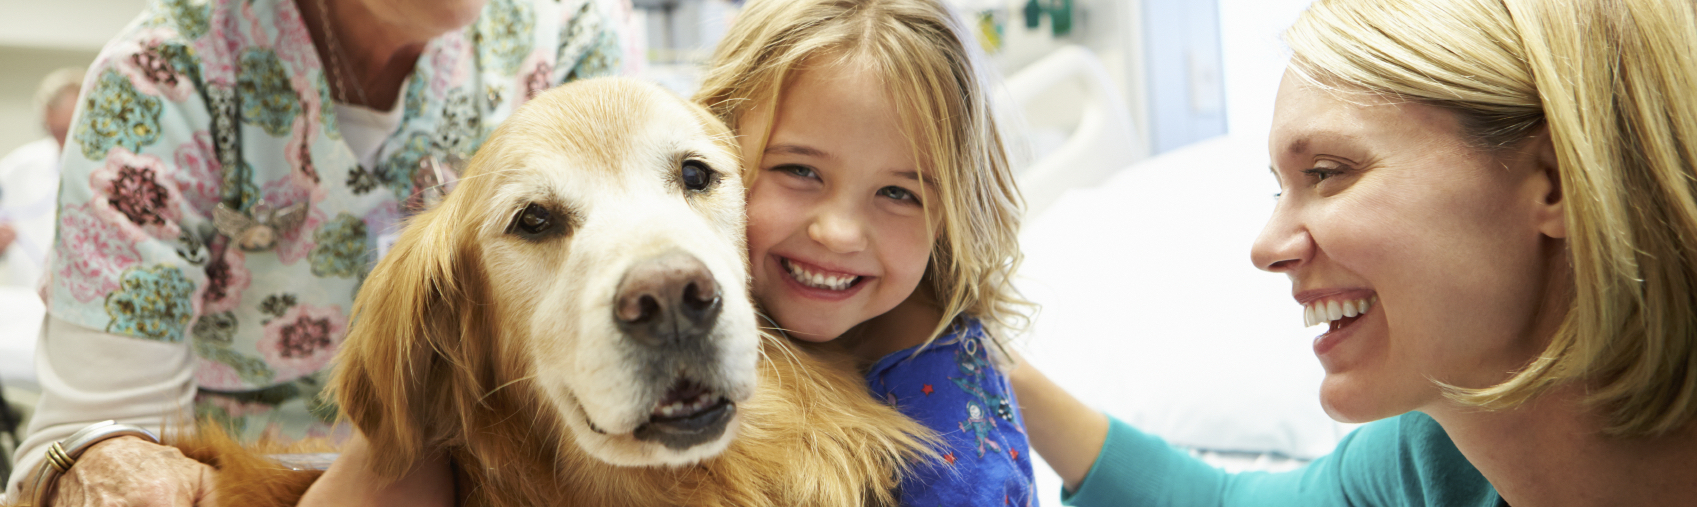
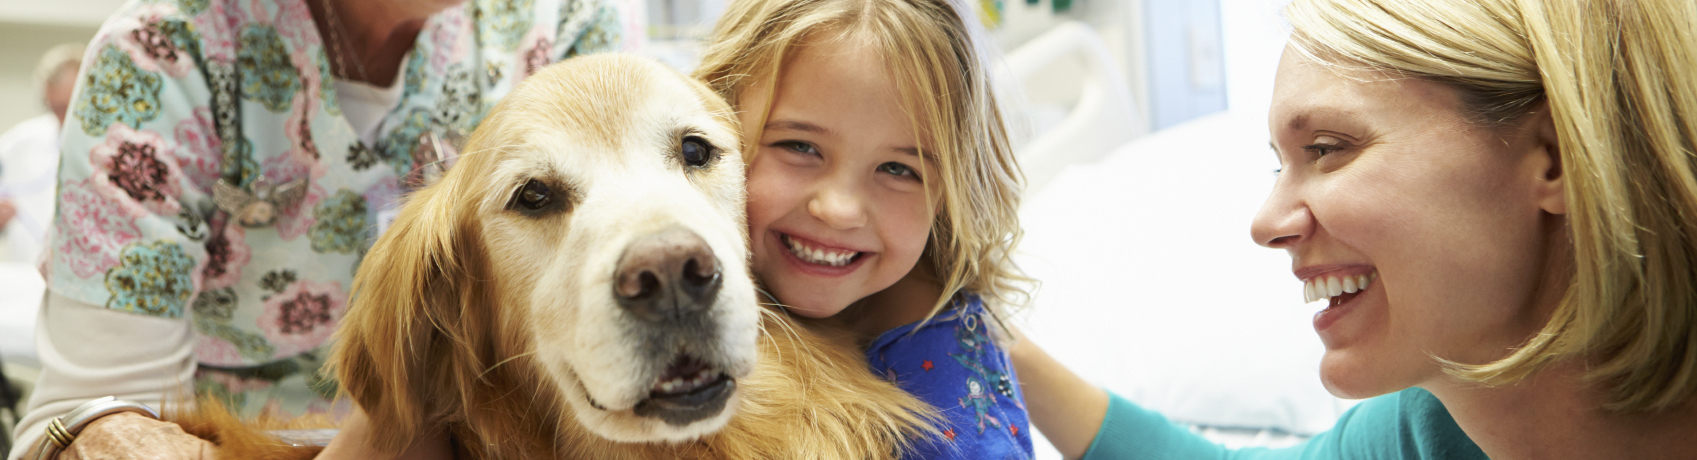
media queries added, updated style

diff --git a/unit_8/index.html b/unit_8/index.html
@@ -4,102 +4,121 @@
 	<title>Doggos Doing Good</title>
 
 	<link href="https://fonts.googleapis.com/css?family=Muli|Roboto" rel="stylesheet">
-	<link rel="stylesheet" type="text/css" href="css/style.css">
+	<link rel="stylesheet" type="text/css" href="css/style2.css">
 	<meta name="viewport" content="width=device-width, initial-scale=1">
 </head>
 
 
 <body>
 	<div class="wrapper">
-	<header>
-		<h1>Doggos Doing Good</h1>
-	</header>
+		<header>
+			<h1>Doggos Doing Good</h1>
+		</header>
 
-	<nav>
-		<ul id="nav">
-			<li><a class="active" href="#home">Home</a></li>
-			<li><a href="http://google.com">Getting Started</a></li>
-			<li><a href="#">Charities</a></li>
-			<li><a href="#">Donate</a></li>
-		</ul>
-	</nav>
+		<nav>
+			<ul id="nav">
+				<li><a class="active" href="#home">Home</a></li>
+				<li><a href="http://google.com">Getting Started</a></li>
+				<li><a href="#">Charities</a></li>
+				<li><a href="#">Donate</a></li>
+			</ul>
+		</nav>
 
-	<main>	
-		<img class="resize" 
-			src="images/focalpoint.jpg"
-			alt="doggo bringing joy to hospital patient"
-			title="therapy dog"
-		>
-		<h2 id="slogan">
-			Pets have a way of find the people that need them most.
-			<br>
-			<strong>We help make it easier.</strong>
-		</h2>
-	</main>
+		<main>	
+			<img class="focalpoint" 
+				src="images/focalpoint.jpg"
+				alt="doggo bringing joy to hospital patient"
+				title="therapy dog"
+			>
+			<h2 id="slogan">
+				Pets have a way of find the people that need them most.
+				<br>
+				<strong>We help make it easier.</strong>
+			</h2>
+		</main>
 
-	<section id="one">
-		<article class="info">
+		<section id="content">
+			<article class="left">
+				<h3>What Do We Do?</h2>
+				<p>
+					Welcome to Doggos Doing Good! Did you know that dogs can provide important health benefits? Being around animals makes people feel better, healthier, and happier. Pet therapy is a growing field that uses dogs and other pets to help children and adults recover from, or cope with, a range of health problems, such as heart disease, cancer and mental health disorders. Animal-assisted activities, on the other hand, have a more general purpose, such as providing comfort and enjoyment for nursing home residents.
+				</p>
+			</article>
+
+			<aside class="goal">
+				<h3>Our goal is to help you: </h3> 
+					<ul>
+						<li>Learn about pet therapy</li><br>
+						<li>What you need to start</li><br>
+						<li>Where to go to volunteer</li></br>
+						<li>Help you bring joy to others</li>
+					</ul>	
+			</aside>
+			<article class="left">
+				<h3>What is Pet Therapy?</h3>
+				<p>
+					Lorem ipsum dolor sit amet, consectetur adipisicing elit. Est voluptas officiis quos ullam explicabo aut doloribus. Quidem voluptate dolores accusamus iusto, neque est facere iste voluptates. Quis totam, incidunt ex. Lorem ipsum dolor sit amet, consectetur adipisicing elit. Inventore neque, iusto ratione, beatae alias nobis veritatis dolor perferendis accusantium sint saepe itaque natus corporis reprehenderit ducimus! Autem, nobis in vitae!
+				</p>
+			</article>
+			<article class="left">
+				<h3>Benefits of Pet Therapy</h3>
+				<p>
+					Lorem ipsum dolor sit amet, consectetur adipisicing elit. Tempora ratione consequuntur pariatur porro neque a nam unde earum sequi architecto. Consequuntur ea sit optio eveniet repellendus eos fuga autem inventore.Lorem ipsum dolor sit amet, consectetur adipisicing elit. Error commodi architecto voluptatibus delectus perferendis voluptatem ut dignissimos, incidunt impedit corporis nemo quaerat sequi nostrum eius excepturi quasi, labore voluptate laudantium? Lorem ipsum dolor sit amet, consectetur adipisicing elit. Vero odio autem sunt. Ipsum, non, iste. Obcaecati deleniti quidem quaerat voluptatibus consequuntur doloribus quam, ad dolore architecto, culpa maiores voluptate et.
+				</p>
+			</article>
+			<article class="left">
+				<h3>Who Should Consider Pet Therapy?</h3>
+				<p>
+					Lorem ipsum dolor sit amet, consectetur adipisicing elit. Iure ratione voluptatum impedit quas perferendis cumque quod, quibusdam aliquid adipisci earum iste ipsum odit iusto odio. Obcaecati recusandae id error cupiditate.Lorem ipsum dolor sit amet, consectetur adipisicing elit. Distinctio hic saepe, voluptas! Ipsum dolores iusto molestias quis, perspiciatis, in assumenda laborum ipsa cupiditate minima tempora quasi voluptatem adipisci eos cum.Lorem ipsum dolor sit amet, consectetur adipisicing elit. Quibusdam rem qui optio consectetur velit eum, amet nam iste magni voluptas error, deserunt tenetur, accusamus cumque soluta eaque. Tempore dolorem, minus.
+				</p>
+			</article>
+			<article class="left">
+				<h3>What are the Risks of Pet Therapy?</h3>
+				<p>
+					loremLorem ipsum dolor sit amet, consectetur adipisicing elit. Quaerat itaque odio obcaecati suscipit reiciendis et, dignissimos unde dolores, iusto esse aspernatur soluta nulla molestiae, fuga tempore doloremque voluptate maxime vero.Lorem ipsum dolor sit amet, consectetur adipisicing elit. Vero soluta vel, quam enim repellat dolorem vitae tenetur? Dicta incidunt nesciunt magnam, cum nulla voluptas sequi consectetur ullam, similique facere in.
+				</p>
+			</article>
+			<article class="left">
+				<h3>How is Pet Therapy Administered?</h3>
+				<p>
+					Lorem ipsum dolor sit amet, consectetur adipisicing elit. Quasi, assumenda, perferendis. Assumenda nostrum eaque odit, facere, illo, magnam reprehenderit nulla harum deserunt officia dolor itaque? Voluptates assumenda facilis veniam repudiandae!Lorem ipsum dolor sit amet, consectetur adipisicing elit. Ratione ab harum, perspiciatis optio dolorem, numquam consectetur aliquid, voluptatibus voluptate veritatis quaerat soluta est neque ea. Doloribus similique, modi voluptatibus vitae!
+				</p>
+			</article>
+			<article class="left">
+				<h3>Outlook</h3>
+				<p>
+					Lorem ipsum dolor sit amet, consectetur adipisicing elit. Possimus adipisci, perspiciatis, tempore quos ipsum tempora similique necessitatibus unde accusantium quidem deserunt. Sed nesciunt modi, veniam magnam quibusdam inventore, rem magni.Lorem ipsum dolor sit amet, consectetur adipisicing elit. Quod consequatur dolore quis iste voluptatibus possimus, laborum nobis velit consequuntur magnam id dolorum, eius voluptate. Dolores rerum, quaerat! Repellat, quos nulla.Lorem ipsum dolor sit amet, consectetur adipisicing elit. Pariatur necessitatibus, praesentium, molestiae dolore illum quod doloremque saepe minus eius reprehenderit aut provident nemo perferendis iusto perspiciatis aperiam magnam, ullam voluptatem.
+				</p>
+			</article>
+			<aside class="right">
+				<nav id="pt_nav">
+					<li><a href="#">Benefits</a></li>
+					<li><a href="#">Candidates</a></li>
+					<li><a href="#">Risks</a></li>
+					<li><a href="#">Procedure</a></li>
+					<li><a href="#">Outlook</a></li>
+				</nav>
+			</aside>
+			<article class="left">
+				<h3>How to Become Certified</h3>
+				<p>
+					Lorem ipsum dolor sit amet, consectetur adipisicing elit. Inventore omnis saepe pariatur necessitatibus reprehenderit sunt tempora laboriosam sint, sequi suscipit earum, aliquam ullam ratione aperiam autem quo sit debitis laudantium. Lorem ipsum dolor sit amet, consectetur adipisicing elit. Assumenda eius repellendus pariatur tempore quidem, error facere sapiente porro. Et, sapiente officia similique provident neque impedit quasi dolorum, molestiae molestias esse!
+				</p>
+			</article>
+
+			<article class="left">
+				<h3>Where to Volunteer</h3>
+				<p>
+					Lorem ipsum dolor sit amet, consectetur adipisicing elit. Rerum debitis, officia quisquam, veritatis, molestias quae aspernatur consequatur atque repellat nemo cum asperiores maxime ab suscipit quam delectus, eaque! Aperiam, repudiandae. Lorem ipsum dolor sit amet, consectetur adipisicing elit. Beatae esse delectus quae, vel harum dolores qui modi culpa et, est temporibus in a quod nihil, saepe consequuntur quo quia cum.
+				</p>
+			</article>
+		</section>
+
+		<footer>
 			<p>
-				Welcome to Doggos Doing Good! Did you know that dogs can provide important health benefits? Being around animals makes people feel better, healthier, and happier. Pet therapy is a growing field that uses dogs and other pets to help children and adults recover from, or cope with, a range of health problems, such as heart disease, cancer and mental health disorders. Animal-assisted activities, on the other hand, have a more general purpose, such as providing comfort and enjoyment for nursing home residents.
+				<a id="contactme" href="mailto:debahall12@gmail.com?subject=Deborah, my pup is interested in helping others!">Contact Me</a>
 			</p>
-		</article>
-
-		<aside class="goal">
-			<h3>Our goal is to help you: </h3> 
-				<ul>
-					<li>Learn about pet therapy</li><br>
-					<li>What you need to start</li><br>
-					<li>Where to go to volunteer</li></br>
-					<li>Help you bring joy to others</li>
-				</ul>	
-			<!-- </p> -->
-		</aside>
-	</section>
-
-	<section id="two_column" class="clearfix">
-		<article id="left">
-			<h3>What is Pet Therapy?</h3>
-			<p>
-				Lorem ipsum dolor sit amet, consectetur adipisicing elit. Est voluptas officiis quos ullam explicabo aut doloribus. Quidem voluptate dolores accusamus iusto, neque est facere iste voluptates. Quis totam, incidunt ex. Lorem ipsum dolor sit amet, consectetur adipisicing elit. Inventore neque, iusto ratione, beatae alias nobis veritatis dolor perferendis accusantium sint saepe itaque natus corporis reprehenderit ducimus! Autem, nobis in vitae!
-			</p>
-		</article>
-
-		<aside id="right">
-			<img class="resize" 
-				src="images/volunteer.jpg"
-				alt="young, hospitalized boy smiling with a dog"
-				title="dog brings happiness">
-		</aside>
-	</section>
-
-	<section id="three">
-		<article class="certification">
-			<h3>How to Become Certified</h3>
-			<p>
-				Lorem ipsum dolor sit amet, consectetur adipisicing elit. Inventore omnis saepe pariatur necessitatibus reprehenderit sunt tempora laboriosam sint, sequi suscipit earum, aliquam ullam ratione aperiam autem quo sit debitis laudantium. Lorem ipsum dolor sit amet, consectetur adipisicing elit. Assumenda eius repellendus pariatur tempore quidem, error facere sapiente porro. Et, sapiente officia similique provident neque impedit quasi dolorum, molestiae molestias esse!
-			</p>
-		</article>
-
-		<article class="volunteer">
-			<h3>Where to Volunteer</h3>
-			<p>
-				Lorem ipsum dolor sit amet, consectetur adipisicing elit. Rerum debitis, officia quisquam, veritatis, molestias quae aspernatur consequatur atque repellat nemo cum asperiores maxime ab suscipit quam delectus, eaque! Aperiam, repudiandae. Lorem ipsum dolor sit amet, consectetur adipisicing elit. Beatae esse delectus quae, vel harum dolores qui modi culpa et, est temporibus in a quod nihil, saepe consequuntur quo quia cum.
-			</p>
-		</article>
-
-	<!-- 	<aside class="vol_img">
-			<img class="resize" 
-				src="images/pettherapy.jpg"
-				alt="young, smiling girl reading to therapy dog"
-				title="learning with dogs">
-		</aside> -->
-	</section>
-
-	<footer>
-		<p>
-			<a id="contactme" href="mailto:debahall12@gmail.com?subject=Deborah, my pup is interested in helping others!">Contact Me</a>
-		</p>
-	</footer>
+		</footer>
 	</div>
 </body>
 

diff --git a/unit_8/css/style2.css b/unit_8/css/style2.css
@@ -7,7 +7,7 @@ body {
 	color: #476D8A;
 	font-family: Muli, sans-serif;
 	font-size: 17px;
-	text-align: center;
+	text-align: left;
 	margin: 0;
 }
 
@@ -18,6 +18,7 @@ h1 {
 	font-size: 2.2em;
 	padding: 1em;
 	margin: 0;
+	text-align: center;
 }
 
 nav {
@@ -79,13 +80,13 @@ main {
 	margin: 0;
 }
 
-img.resize {
+/*img.resize {
 	margin-top: 0;
 	margin-bottom: 0;
 }
+*/
 
-
-#one, #three {
+/*#one, #three {
 	display: flex;
 	justify-content: space-around;
 	align-items: center;
@@ -95,14 +96,14 @@ img.resize {
 	line-height: 1.5em;
 	margin: 3.5em;
 	margin-top: 2em;
-}
+}*/
 
-.info {
+/*.info {
 	width: 55%;
 	display: flex;
 	text-align: left;
 }
-
+*/
 #contactme {
 	background-color: #577399;
     border: none;
@@ -120,26 +121,34 @@ img.resize {
 	background: #4a6c6f;
 }
 
-.therapy, .volunteer, .certification {
+/*.therapy, .volunteer, .certification {
 	width: 50%;
 }
-
-#two_column {
+*/
+/*#two_column {
 	padding: 1.9em;
+}*/
+
+#content {
+	line-height: 1.5em;
 }
 
-#left {
-    padding: 1.9em;
+.left {
+    padding: 1em;
     float: left;
-    width: 30%;
+    width: 55%;
     margin-left: 4em;
     line-height: 1.5em;
 }
 
-#right {
+.right {
     padding: 1.9em;
     float: right;   
-    width: 62%;
+    width: 30%%;
+}
+
+#pt_nav {
+	list-style-type: none;
 }
 
 /*#therapy_img {
@@ -158,6 +167,48 @@ img.resize {
     height: 0;
 }
 
-/*.vol_img {
-	float: left;
+/*#one {
+	padding: 1.9em;
+	text-align: left;
 }*/
+
+.goal {
+	padding: 1.9em;
+	float: right;
+	width: 30%;
+	line-height: 1.5em;
+}
+
+footer {
+	float: right;
+	margin: 4em;
+}
+
+@media only screen and (max-width: 768px) {
+	body {
+		font-size: 15px;
+	}
+	#content {
+		float: none;
+		width: auto;
+	}
+	.left {
+		width: 90%;
+		margin-left: 2em;
+	}
+	.goal {
+		display: none;
+	}
+}
+
+@media only screen and (max-width: 480px) {
+	#content {
+		width: 95%;
+	}
+	.left {
+		margin-left: 1em;
+	}
+	#slogan {
+		font-size: 1.5em;
+	}
+}
